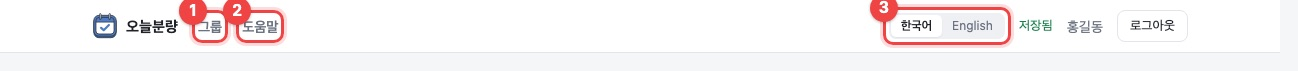
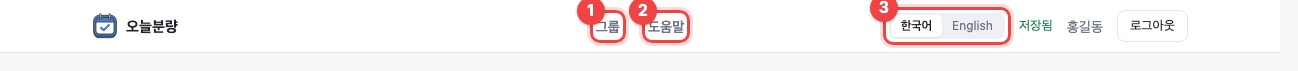
상단 메뉴(그룹·도움말·관리자)를 가운데로

Changed region(s): [[0.4314, 0.0, 0.5547, 0.6479], [0.1233, 0.0, 0.2465, 0.6479]]

diff --git a/style.css b/style.css
@@ -554,16 +554,17 @@ input[type="date"].input { width: 180px; }
   border-bottom: 1px solid var(--border);
 }
 .topbar-inner {
-  display: flex;
-  justify-content: space-between;
+  display: grid;
+  grid-template-columns: 1fr auto 1fr; /* 로고 | 가운데 메뉴 | 오른쪽 */
   align-items: center;
+  gap: 16px;
   max-width: 1160px;
   height: 52px;
   margin: 0 auto;
   padding: 0 32px;
 }
 .brand { font-weight: 700; color: var(--text); text-decoration: none; }
-.topbar-right { display: flex; align-items: center; gap: 14px; font-size: 14px; }
+.topbar-right { display: flex; align-items: center; justify-content: flex-end; gap: 14px; font-size: 14px; }
 .topbar .user { color: var(--muted); }
 .save-state { font-size: 13px; }
 .save-state.is-saving { color: var(--muted); }
@@ -613,7 +614,8 @@ input[type="date"].input { width: 180px; }
 .login-lang { position: fixed; top: 14px; right: 16px; z-index: 5; }
 
 /* ===== 우리 팀 · 사역자 필독서 ===== */
-.topbar-nav { display: flex; align-items: center; gap: 20px; }
+.topbar-nav { display: flex; align-items: center; justify-content: center; gap: 28px; }
+.topbar .brand { justify-self: start; }
 .nav-link { font-size: 14px; font-weight: 600; color: var(--muted); text-decoration: none; }
 .nav-link:hover { color: var(--text); }
 

diff --git a/index.html b/index.html
@@ -11,15 +11,15 @@
   <link rel="icon" href="logo/png/favicon-16.png" sizes="16x16" type="image/png">
   <link rel="apple-touch-icon" href="logo/png/apple-touch-icon.png">
   <link rel="manifest" href="manifest.webmanifest">
-  <link rel="stylesheet" href="landing.css?v=20261001113308">
-  <link rel="stylesheet" href="style.css?v=20261001113308">
+  <link rel="stylesheet" href="landing.css?v=20261001150601">
+  <link rel="stylesheet" href="style.css?v=20261001150601">
 </head>
 <body>
   <header id="topbar" class="topbar" hidden></header>
   <main id="app"></main>
   <script src="https://cdn.jsdelivr.net/npm/@supabase/supabase-js@2.57.4/dist/umd/supabase.min.js"></script>
-  <script src="landing.js?v=20261001113308"></script>
-  <script src="help.js?v=20261001113308"></script>
-  <script src="app.js?v=20261001113308"></script>
+  <script src="landing.js?v=20261001150601"></script>
+  <script src="help.js?v=20261001150601"></script>
+  <script src="app.js?v=20261001150601"></script>
 </body>
 </html>

diff --git a/app.js b/app.js
@@ -2329,8 +2329,8 @@ function renderTopbar() {
   bar.hidden = false;
   bar.innerHTML = `
     <div class="topbar-inner">
+      <a class="brand" href="#/"><img class="brand-logo" src="logo/symbol.svg" alt="" width="26" height="26">${t('오늘분량')}</a>
       <nav class="topbar-nav">
-        <a class="brand" href="#/"><img class="brand-logo" src="logo/symbol.svg" alt="" width="26" height="26">${t('오늘분량')}</a>
         <a class="nav-link" href="#/groups">${t('그룹')}</a>
         <a class="nav-link" href="#/help">${t('도움말')}</a>
         ${account.isAdmin ? `<a class="nav-link" href="#/admin">${t('관리자')}</a>` : ''}
